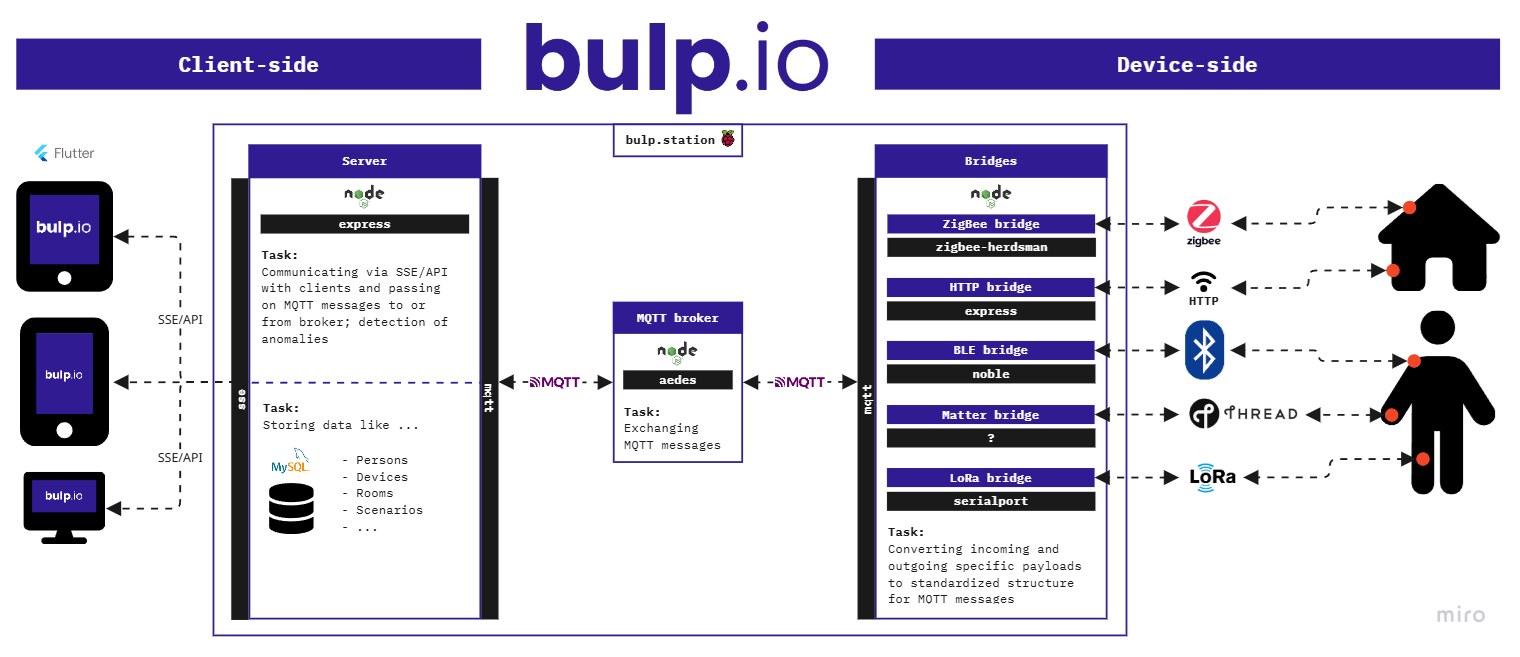
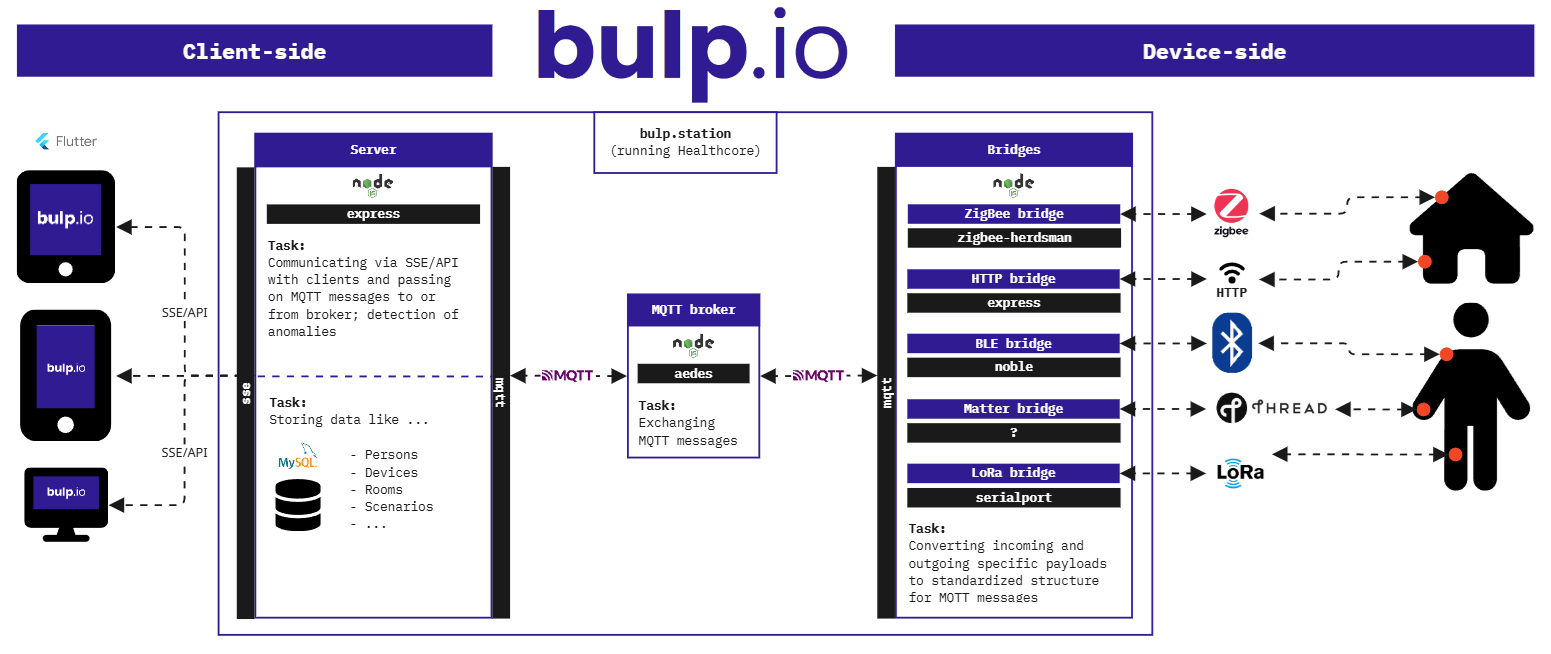
README update

diff --git a/README.md b/README.md
@@ -21,9 +21,8 @@ Let’s democratize and de-monopolize the healthcare sector.
 
 - 🏗 [Architecture](#%EF%B8%8F-architecture)
 - 💻 [Installation (software)](#-installation-software)
-- 🔧 [Installation (hardware)](#-installation-hardware)
 - 📁 [Folder structure](#-folder-structure)
-- 📡 [MQTT topics and messages](#-mqtt-topics-and-messages)
+- 🔧 [Installation (hardware)](#-installation-hardware)
 - 🧩 [Own converters](#-own-converters)
 - 🔌 [API communication](#-api-communication)
 
@@ -46,13 +45,13 @@ On the left, you can see how various interfaces communicate bi-directionally wit
 
 **Prerequisites**
 - Node.js (v22 or higher) and npm
-- MySQL or compatible; client tools for schema import
+- MySQL database; client tools for schema import
 
 **Project setup**
 1. Clone/download the repository and `cd` into its root.
-2. Copy `.env` and (optionally) create `.env.local` to override defaults; fill in:
-   - Database credentials: `CONF_dbHost`, `CONF_dbName`, `CONF_dbUser`, `CONF_dbPass`, `CONF_dbPort`
-   - Adapter paths: `CONF_zigBeeAdapterPort`, `CONF_loRaAdapterPath`, etc.
+2. Create `.env.local` to override defaults; fill in:
+   - MySQL database credentials: `CONF_dbHost`, `CONF_dbName`, `CONF_dbUser`, `CONF_dbPass`, `CONF_dbPort`
+   - Adapter paths: `CONF_zigBeeAdapterPort`, `CONF_zigBeeAdapterName`, `CONF_loRaAdapterPath`, 
 3. Install dependencies:
    ```bash
    npm install
@@ -67,38 +66,75 @@ On the left, you can see how various interfaces communicate bi-directionally wit
 # MQTT broker
 node broker/app.js
 
+# Server
+node server/app.js
+
 # Bridges
 node "bridge - bluetooth/app.js"
 node "bridge - zigbee/app.js"
 node "bridge - lora/app.js"
 node "bridge - http/app.js"
 
-# Server
-node server/app.js
 ```
-
-## 🔧 Installation (hardware)
 
 ## 📁 Folder structure
 ```plaintext
-healthcore.dev/
 ├── broker/               # MQTT broker
 ├── server/               # Server
-│   ├── routes/           # Routes for communication  
-│   └── sse/
+│   ├── routes/           # Routes for communication Server ↔ Interface via API 
+│   └── sse/              # Routes for communication Server ↔ Interface via SSE (Server-Sent Events)
 ├── bridge - bluetooth/   # Bluetooth ↔ MQTT bridge
-│   └── converters/
+│   └── converters/       # Common and own converters
 ├── bridge - zigbee/      # ZigBee ↔ MQTT bridge
-│   └── converters/
+│   └── converters/       # Common and own converters
 ├── bridge - lora/        # LoRa ↔ MQTT bridge
-│   └── converters/
+│   └── converters/       # Common and own converters
 ├── bridge - http/        # HTTP ↔ MQTT bridge
-│   └── converters/
-└── test_devices/         # Example device firmware (Arduino .ino)
+│   └── converters/       # Common and own converters
+└── test_devices/         # Example device firmware (for Arduino)
 ```
 
-## 📡 MQTT topics and messages
+## 🔧 Installation (hardware)
+- **Host platform**  
+  - Raspberry Pi 4 or (or better) or any Linux/Windows PC with network access
+- **Adapters**  
+  - **Bluetooth**: Built-in BLE or USB dongle  
+  - **ZigBee**: USB coordinator (e.g. CC2531, ConBee II, Sonoff Zigbee 3.0 USB stick)  
+  - **LoRa**: USB or serial LoRa adapter (e.g. Dragino LA66 LoRaWAN USB Adapter)
+- **Connections**  
+  - Plug adapters into host; note device paths (e.g. `/dev/ttyUSB0` or `COMx`) and set in `.env.local`
+
+
 
 ## 🧩 Own converters
+1. **Create** a new JS file in the bridge’s `converters/` folder (e.g. `Converter_MySensorX.js`).
+2. **Extend** `ConverterStandard`:
+
+   ```js
+   const { ConverterStandard } = require("./ConverterStandard.js");
+
+   class Converter_MySensorX extends ConverterStandard {
+     static productName = "MySensor X";    // exactly match the device’s product name
+     constructor() {
+       super();
+       // define mapping:
+       this.properties = {
+         temperature: { uuid: "xxxx" },
+         humidity:    { uuid: "yyyy" }
+       };
+     }
+     // implement conversion if needed
+     get(property, rawValue) {
+       if (property.name === "temperature") {
+         return rawValue / 100; // example
+       }
+       return super.getStandard(property, rawValue);
+     }
+   }
+   module.exports = { Converter_MySensorX };
+   ```
+
+3. **Auto-load**: `Converters.js` dynamically requires all files in `converters/` (excluding `ConverterStandard.js`), detects the static `productName`, and registers your class.
 
 ## 🔌 API communication
+Coming soon
